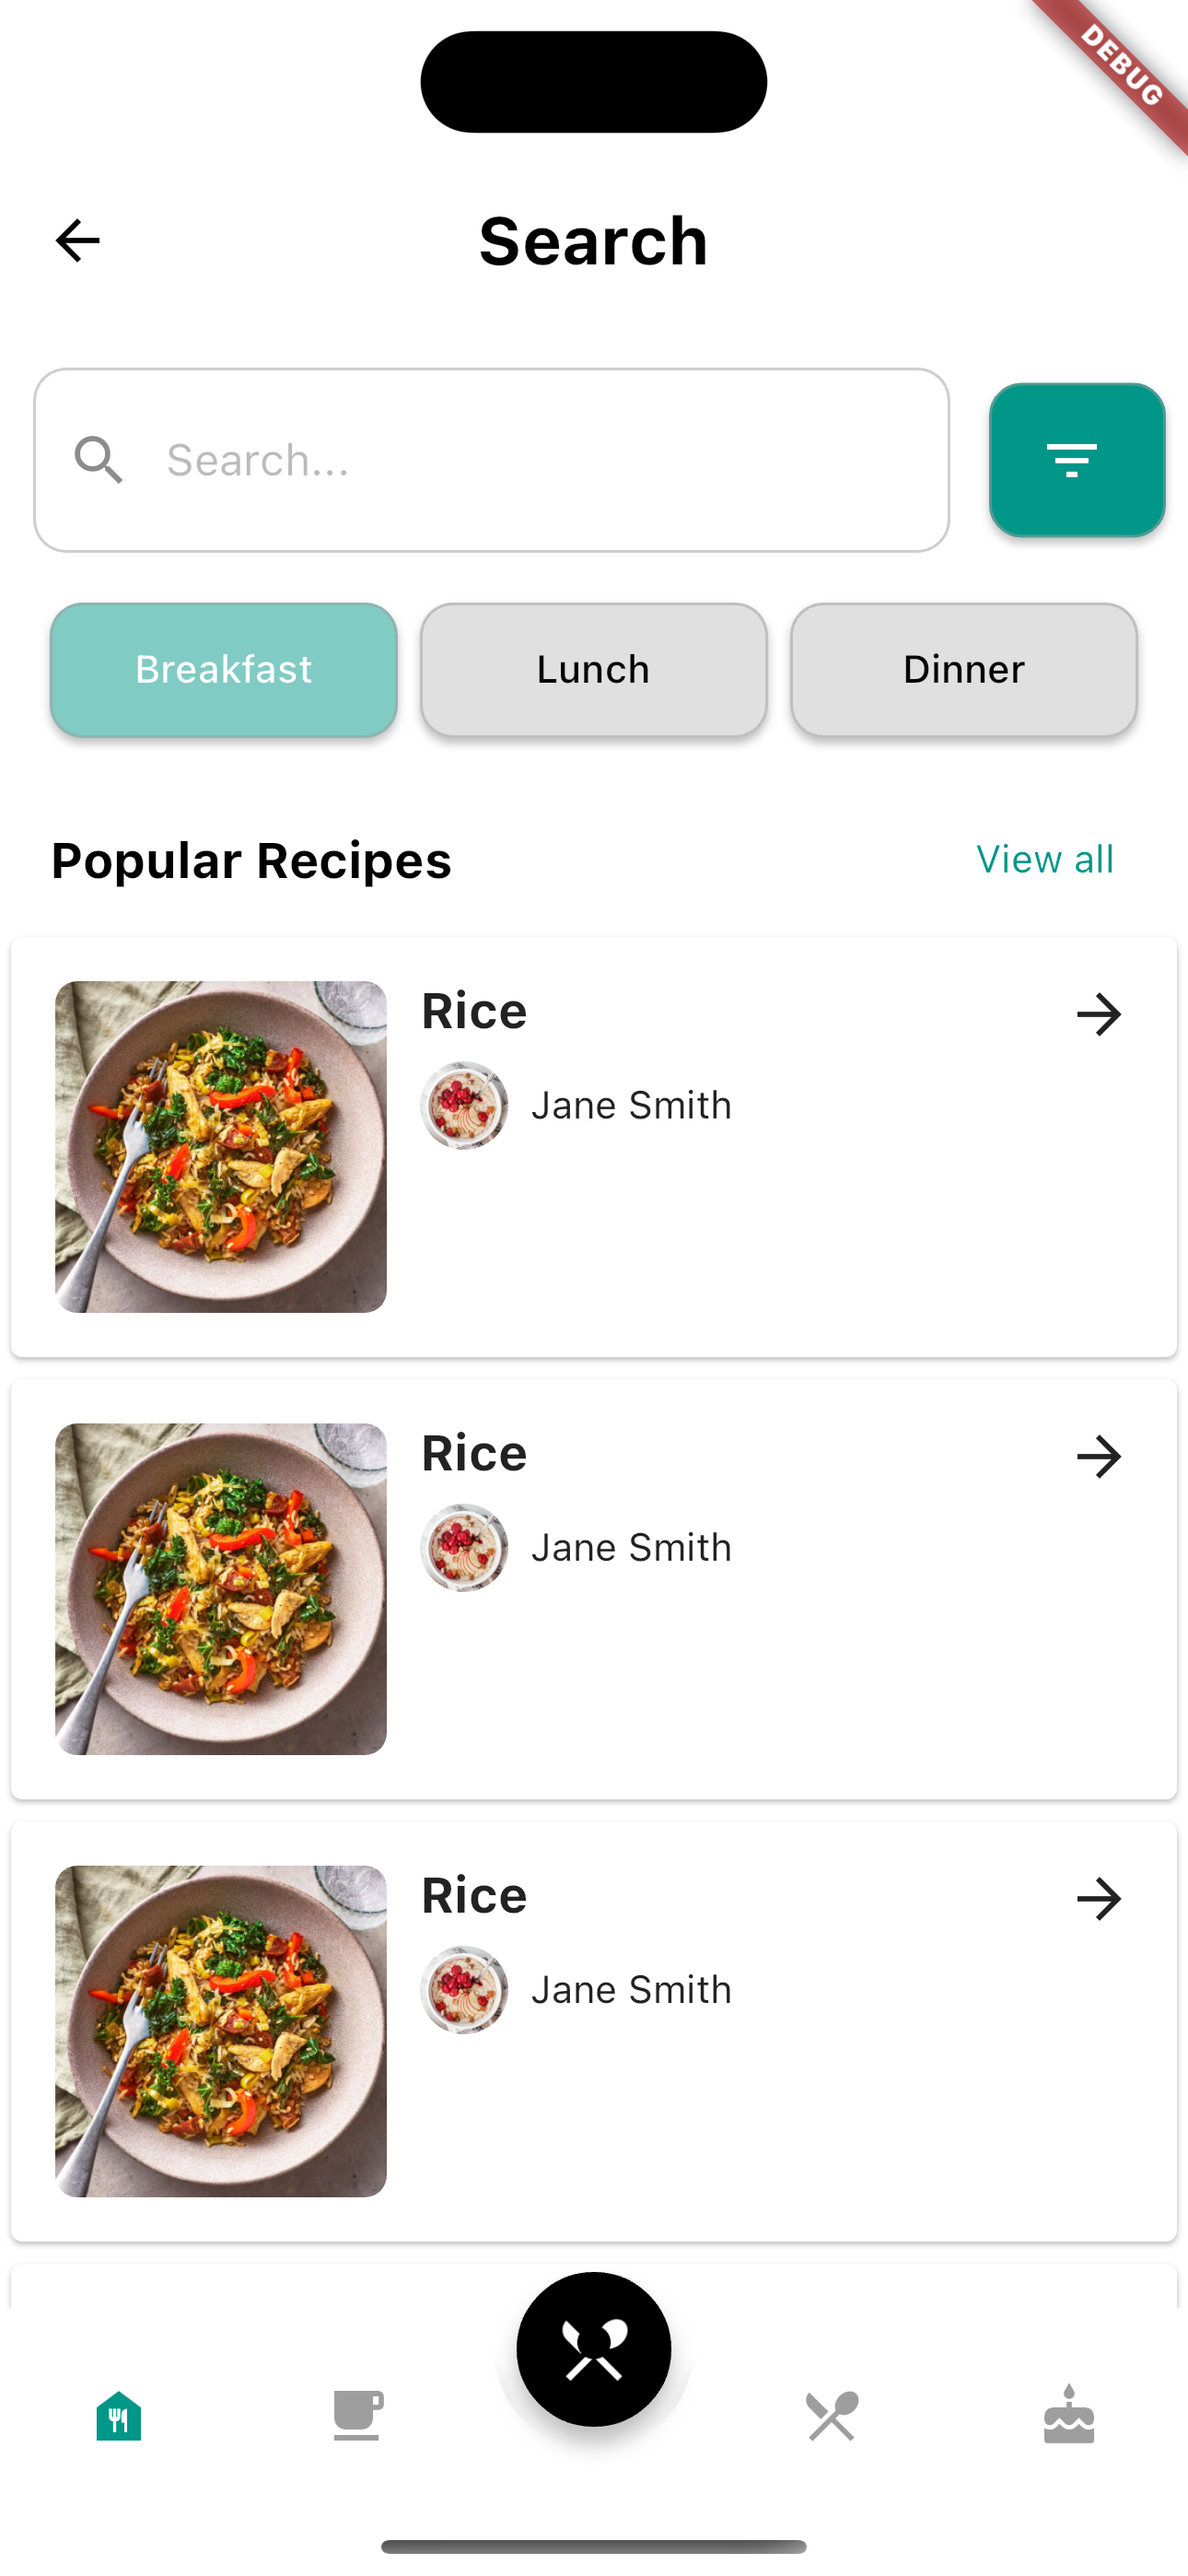
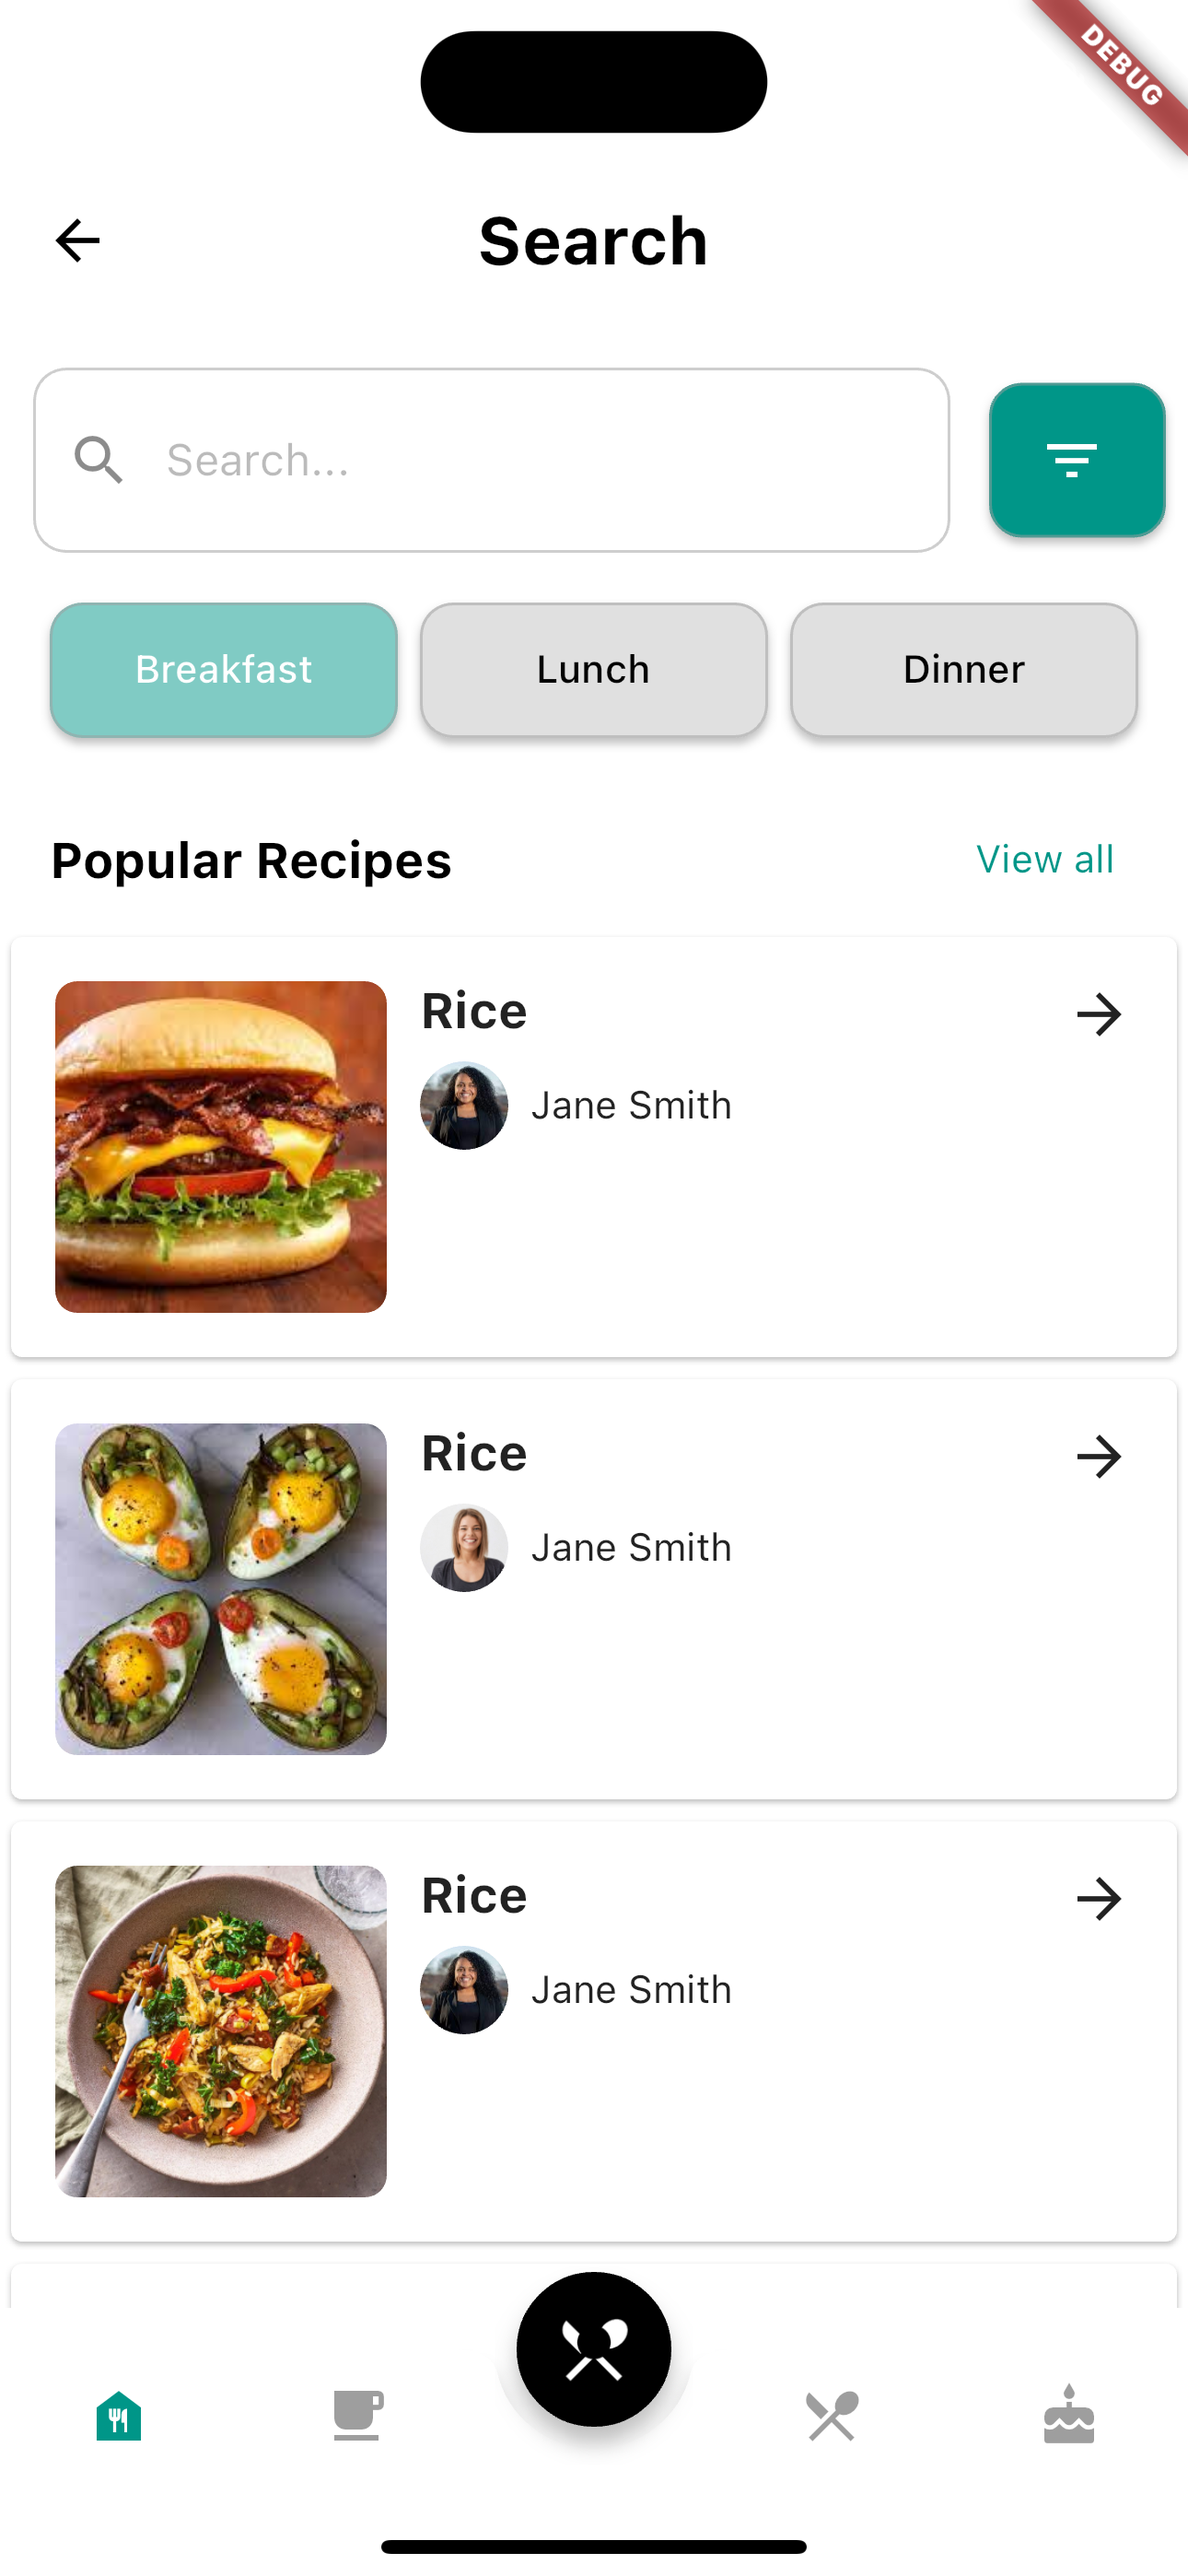
Updated README

Changed region(s): [[0.031, 0.3734, 0.4341, 0.6845], [0.3101, 0.9646, 0.6822, 0.9957], [0.3411, 0.7468, 0.4341, 0.809]]

diff --git a/lib/Components/HomeComponents/editor_listview.dart b/lib/Components/HomeComponents/editor_listview.dart
@@ -9,26 +9,26 @@ class RecipeListView extends StatelessWidget {
         RecipeCard(
           recipeTitle: 'Rice',
           authorName: 'Jane Smith',
-          imageUrl: 'assets/images/rice.jpg', 
-          authorImageUrl: 'assets/images/oatmeal.jpg', 
+          imageUrl: 'assets/images/burgers.jpg', 
+          authorImageUrl: 'assets/images/person1.jpg', 
         ),
         RecipeCard(
           recipeTitle: 'Rice',
           authorName: 'Jane Smith',
-          imageUrl: 'assets/images/rice.jpg', 
-          authorImageUrl: 'assets/images/oatmeal.jpg', 
+          imageUrl: 'assets/images/eggs.jpg', 
+          authorImageUrl: 'assets/images/person2.jpg', 
         ),
             RecipeCard(
           recipeTitle: 'Rice',
           authorName: 'Jane Smith',
           imageUrl: 'assets/images/rice.jpg',
-          authorImageUrl: 'assets/images/oatmeal.jpg', 
+          authorImageUrl: 'assets/images/person1.jpg', 
         ),
                 RecipeCard(
           recipeTitle: 'Rice',
           authorName: 'Jane Smith',
           imageUrl: 'assets/images/rice.jpg', 
-          authorImageUrl: 'assets/images/oatmeal.jpg', 
+          authorImageUrl: 'assets/images/person1.jpg', 
         ),
       ],
     );
